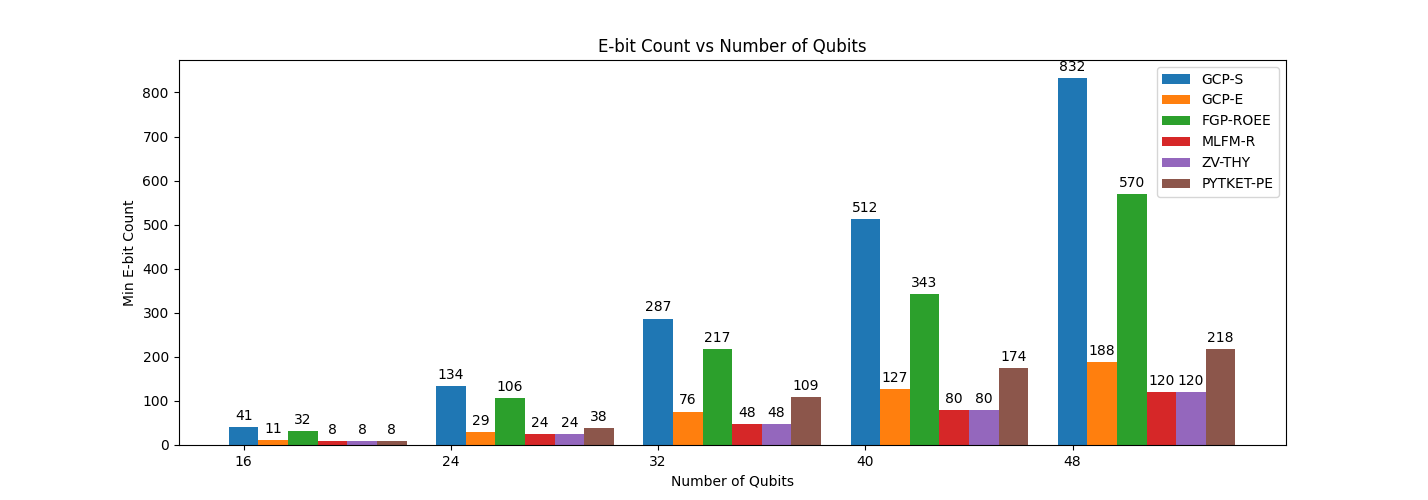
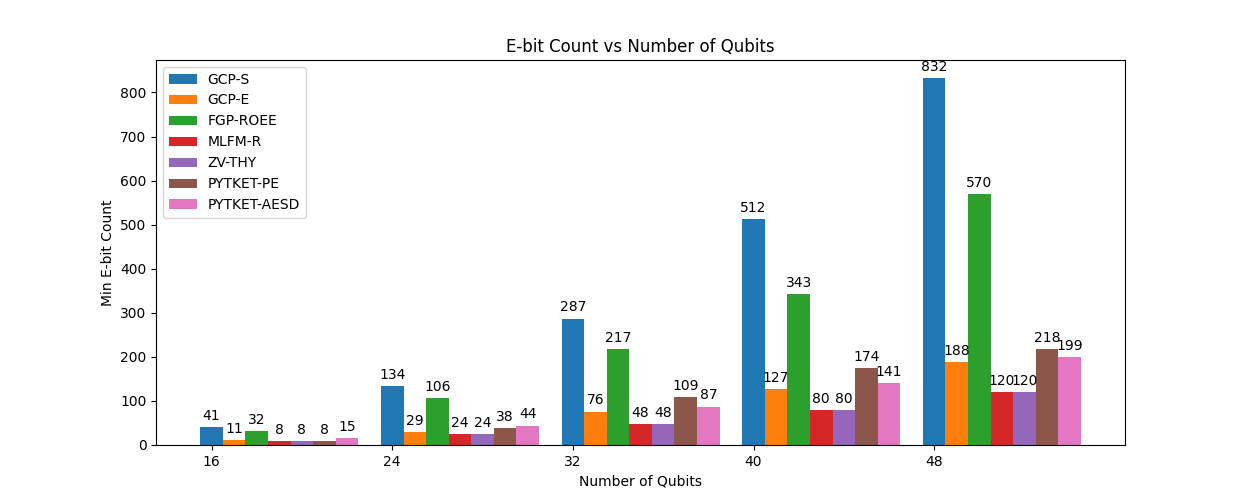
Reproduced PYTKET-AESD data

diff --git a/main.py b/main.py
@@ -4,10 +4,12 @@ import time
 
 import numpy as np
 from pytket.extensions.qiskit import qiskit_to_tk
-from pytket_dqc.allocators import HypergraphPartitioning
+from pytket_dqc.allocators import Annealing, HypergraphPartitioning
 from pytket_dqc.distributors import Distributor
 from pytket_dqc.networks import NISQNetwork
-from pytket_dqc.refiners import EagerHTypeMerge, RepeatRefiner
+from pytket_dqc.refiners import (DetachedGates, EagerHTypeMerge,
+                                 IntertwinedDTypeMerge, NeighbouringDTypeMerge,
+                                 RepeatRefiner, SequenceRefiner, VertexCover)
 from pytket_dqc.utils import DQCPass, ebit_cost
 from qiskit import transpile
 from qiskit.circuit.library import QFT
@@ -123,6 +125,51 @@ def test_PYTKET_PE(circuit, qpu_sizes, num_partitions):
     
     return cost, duration
 
+def test_PYTKET_AESD(circuit, qpu_sizes, num_partitions):
+    qpu_indices = list(range(num_partitions))
+    qpu_cum_sizes = [0] + list(np.cumsum(qpu_sizes))
+    qpu_qubits_ranges = [range(start, stop) for start,stop in zip(qpu_cum_sizes, qpu_cum_sizes[1:])]
+
+    network = NISQNetwork(
+        server_coupling=list(itertools.product(qpu_indices, qpu_indices)), # fully connected
+        server_qubits={qpu_idx:list(qubits_range) for qpu_idx,qubits_range in enumerate(qpu_qubits_ranges)}
+    )
+
+    tk_circuit = qiskit_to_tk(circuit.decompose()) #assumes circuit is a box
+    DQCPass().apply(tk_circuit) # decompose into CP, H, and Rz
+
+    start = time.time()
+    """Equivalent too the workflow EmbedSteinerDetach 
+    cited in [Andres-Matrinez et al. 2024] 
+    but with Annealer instead of KaHyPar, as in [Burt et al. 2024]
+
+    Implemented by merging the pytket-dqc distributors
+    - PartitioningAnnealing, which includes the annealing
+    - CoverEmbedding, which includes the embedding
+    - CoverEmbeddingSteiner, which includes the Steiner tree merging
+    - CoverEmbeddingSteinerDetached, which includes the reallocation using detached gates
+    """
+    # PartitioningAnnealing
+    distribution = Annealing().allocate(tk_circuit, network)  #seed goes as kwarg
+    # CoverEmbedding
+    VertexCover().refine(distribution)
+    # Steiner
+    refiner_list = [
+        NeighbouringDTypeMerge(),
+        IntertwinedDTypeMerge(),
+    ]
+    refiner = RepeatRefiner(SequenceRefiner(refiner_list))
+    refiner.refine(distribution)
+    # Detached
+    DetachedGates().refine(distribution)
+
+    stop = time.time()
+    duration = stop - start
+
+    cost = distribution.cost()
+
+    return cost, duration
+
 
 def main():
     qpu_size = 8
@@ -142,9 +189,9 @@ def main():
         circuit = transpile(circuit, basis_gates=basis_gates) # TODO refactor
 
         print(f'Number of qubits in circuit {circuit.num_qubits}')
-        best_score, time = test_PYTKET_PE(circuit, qpu_sizes, num_partitions)
+        best_score, time = test_PYTKET_AESD(circuit, qpu_sizes, num_partitions)
         print(f"Min e-bit count: {best_score}")
-        print(f"Time taken for PYTKET_PE: {time} seconds")
+        print(f"Time taken for PYTKET_AESD: {time} seconds")
         print()
 
 if __name__ == "__main__":

diff --git a/plot_results_data.py b/plot_results_data.py
@@ -11,6 +11,7 @@ def plot_results():
         "results-data-mlfm-r.txt", 
         "results-data-zv-thy.txt",
         "results-data-pytket-pe.txt",
+        "results-data-pytket-aesd.txt",
     ]
     method_names = ['-'.join(filename.split("-")[2:]).upper()[:-4] for filename in result_filenames]
 
